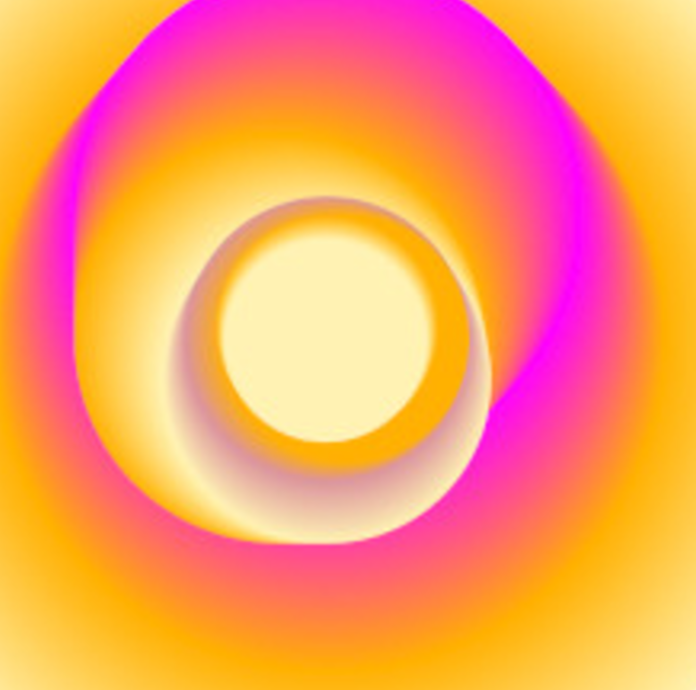
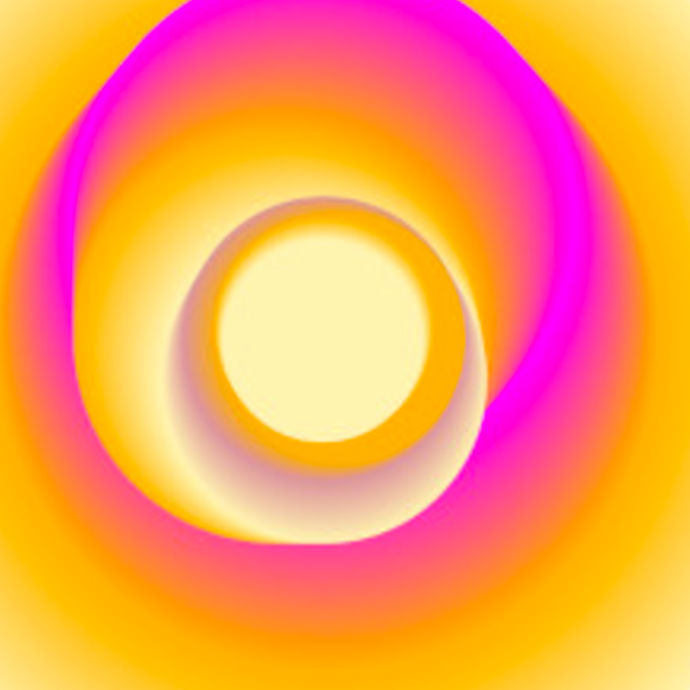
rescale images to square

diff --git a/css/styleSheet.css b/css/styleSheet.css
@@ -84,6 +84,7 @@ img {
 a:link {
   text-decoration: none;
   cursor: auto;
+  color:white;
 }
 
 a:visited {
@@ -147,6 +148,7 @@ figure {
 .works img {
   box-sizing: content-box;
   width: 100%;
+  height: auto;
 }
 
 @media screen and (max-width:600px) {

diff --git a/js/js.js b/js/js.js
@@ -1,8 +1,5 @@
 $(document).ready(function() {
   widths = $('.works figure img');
 
-  for (var i=0;i<widths.length;i++){
-    var img = widths[i];
-    $(img).css("height",img.width);
-  }
+  
 });
